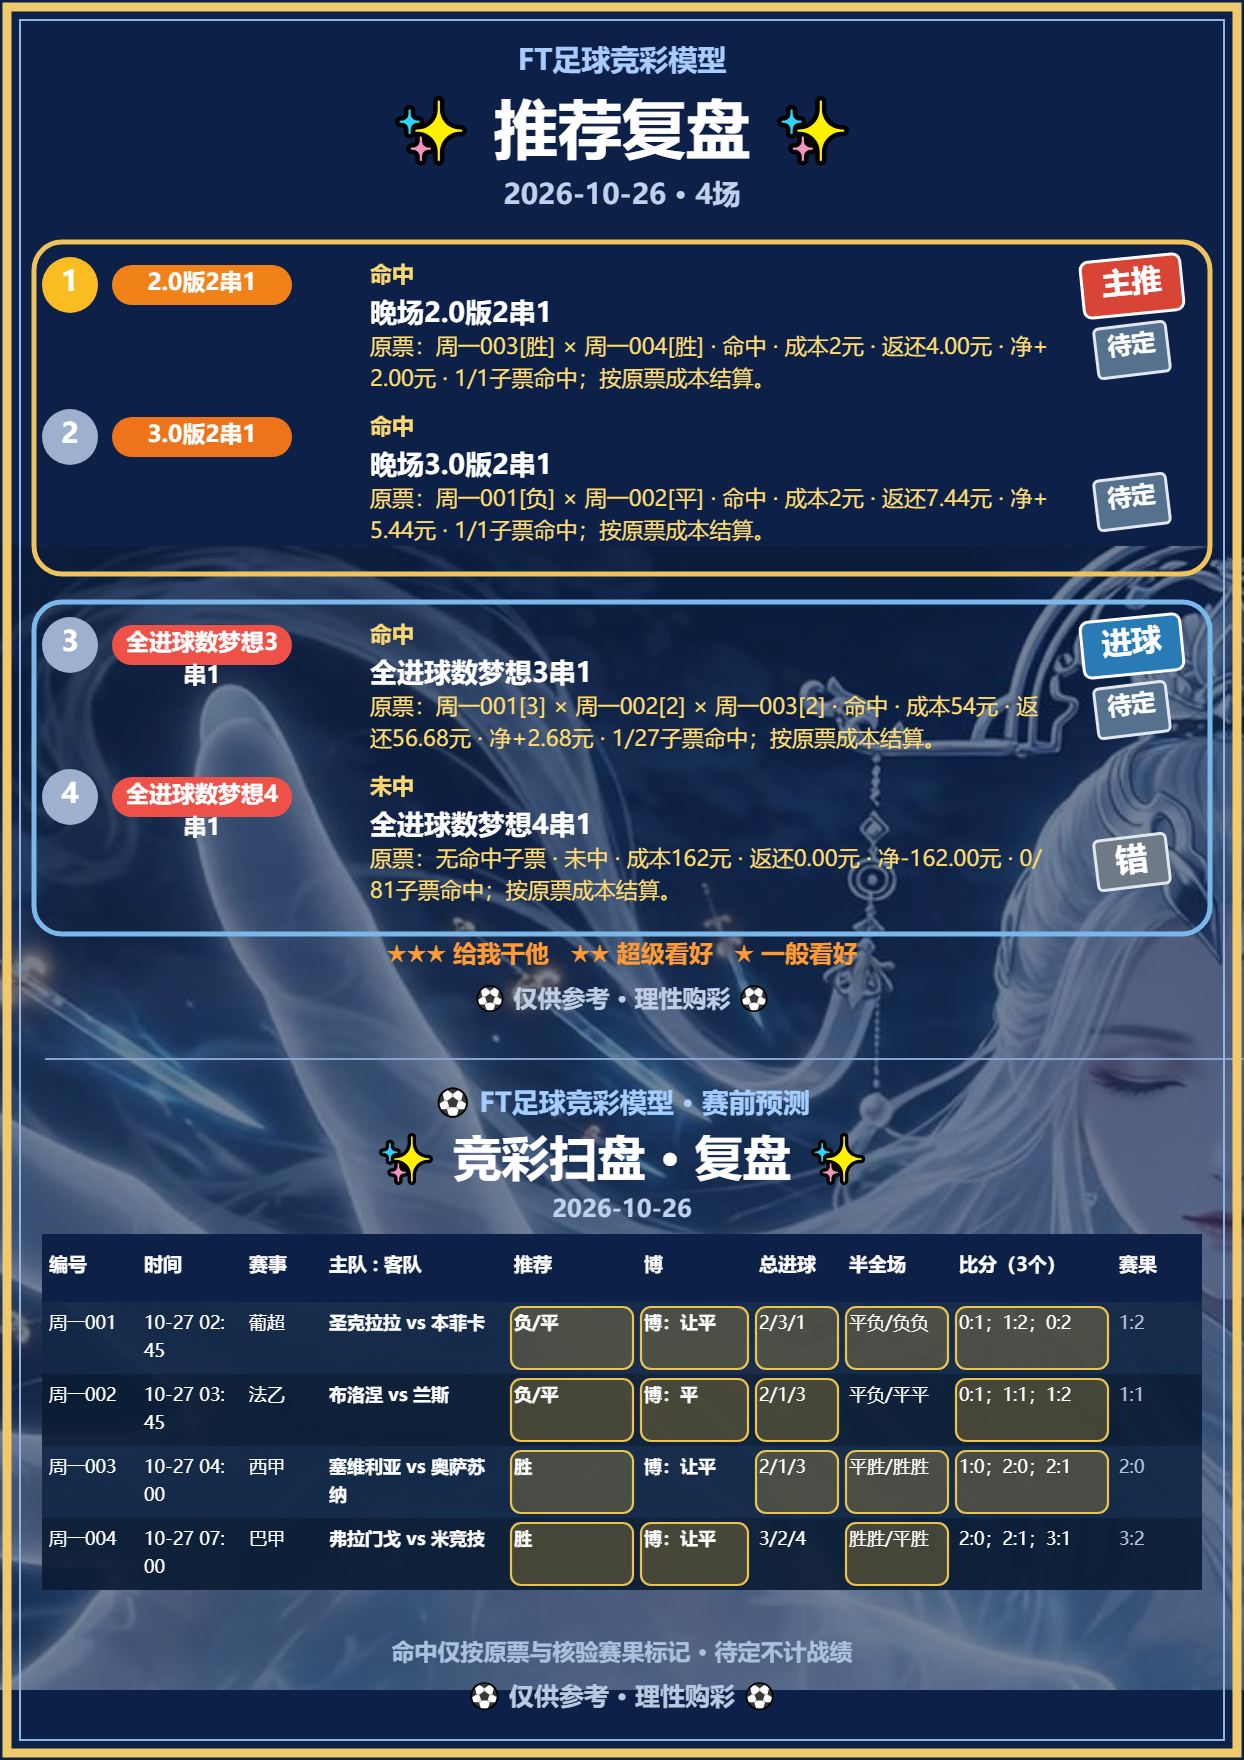
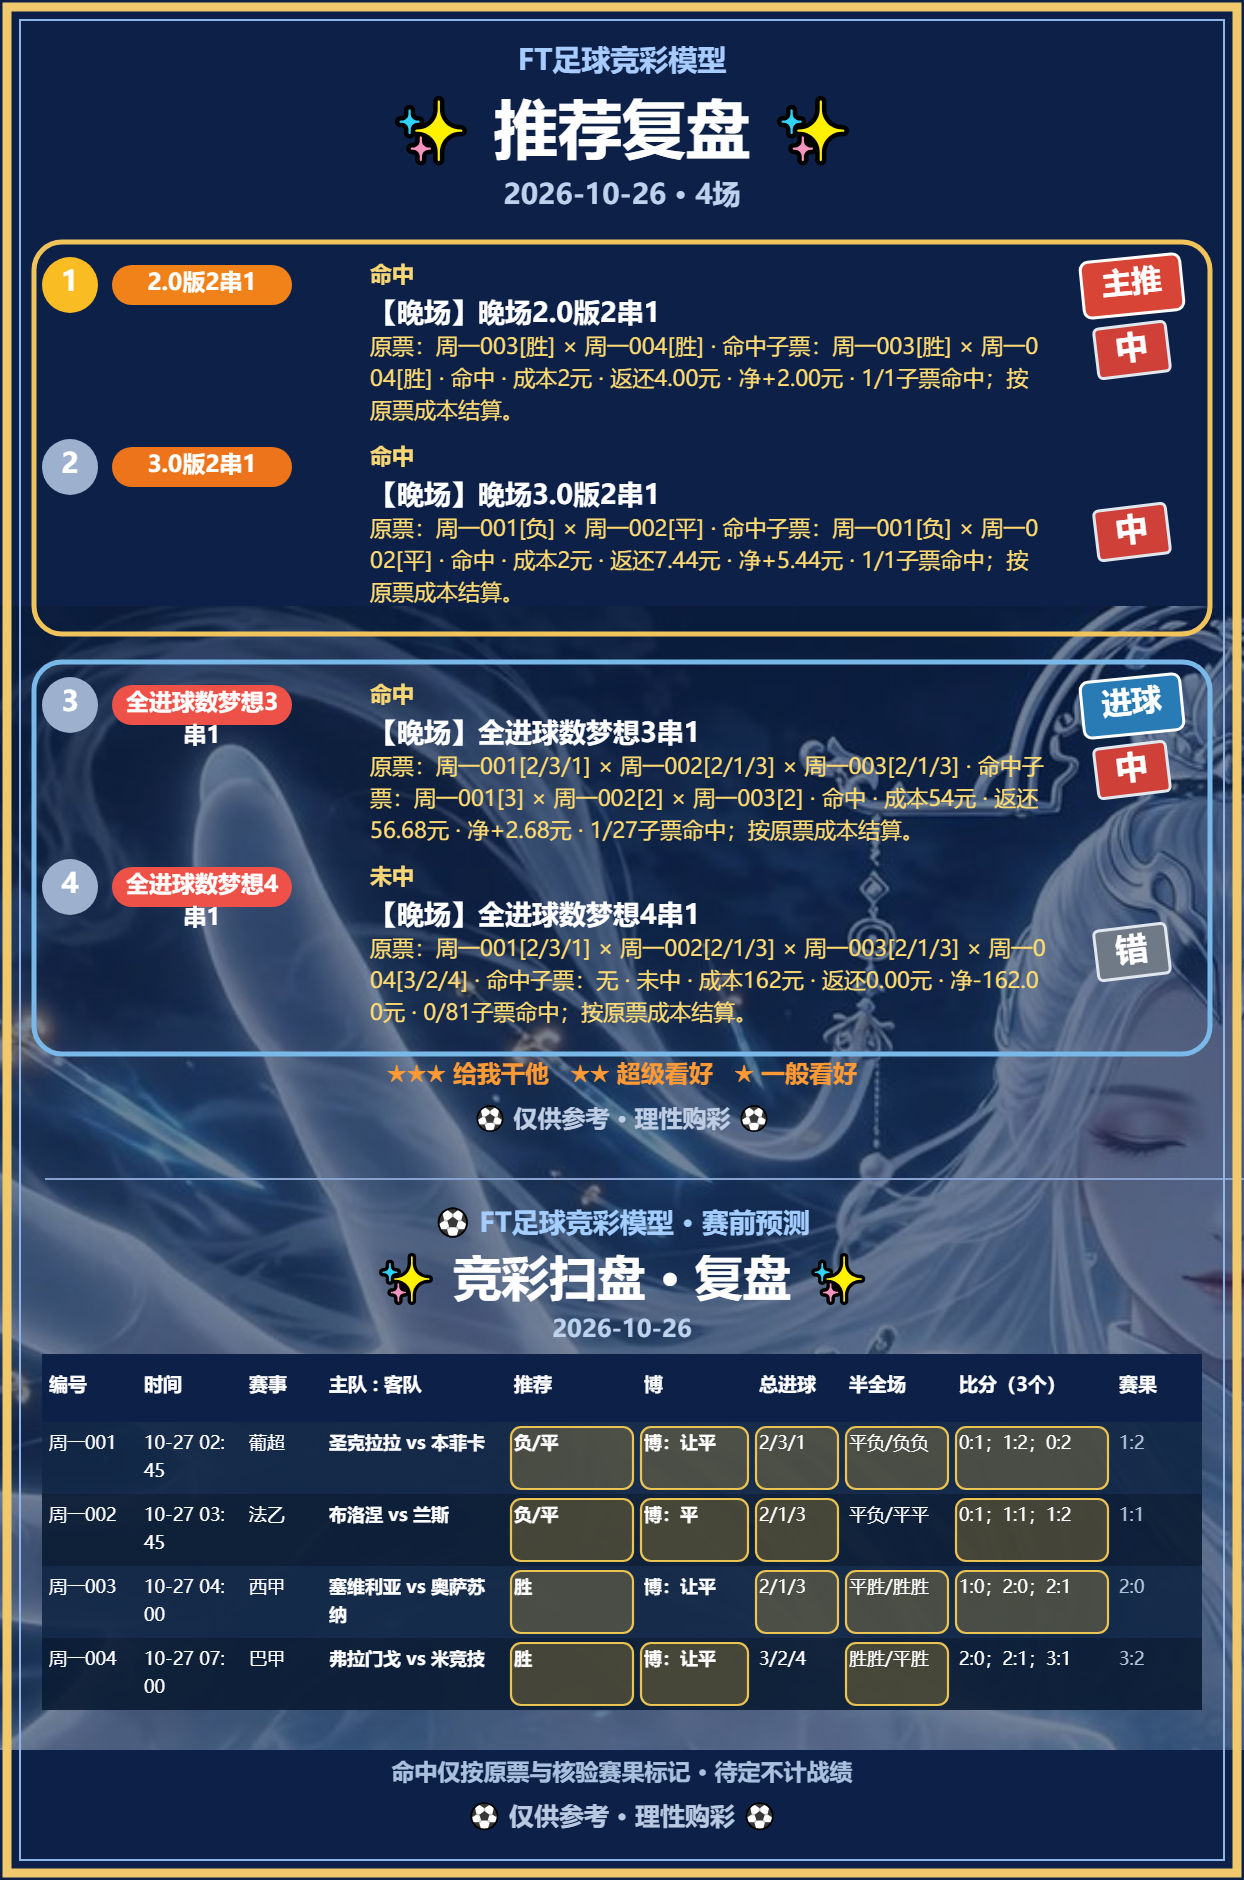
Make football monitoring cloud-first

diff --git a/public/muse-cards.js b/public/muse-cards.js
@@ -8,7 +8,7 @@
   const money=n=>n==null?'—':(Number(n)>0?'+':'')+Number(Number(n).toFixed(2));
   const plain=v=>String(v??'').replace(/<[^>]*>/g,'');
   const reviewPick=r=>plain(r.primaryPick||r.buy||r.resultPick||'待分析').replace(/｜/g,'\n');
-  function ticketSeal(ctx,r,x,y){const s=plain(r.status||r.result||'');let label='待定',color='#56718d';if(r.invalid||/不合规|无效/.test(s)){label='无效';color='#687380'}else if(/待定|待核|未完|未结/.test(s)){}else if(/未中|没中|错/.test(s)){label='错';color='#707986'}else if(r.hit===true||/全中|串子命中|^中$/.test(s)){label='中';color='#ce4038'}ctx.save();ctx.translate(x,y);ctx.rotate(-.12);ctx.fillStyle=color;ctx.strokeStyle='#e0e7ef';ctx.lineWidth=3;ctx.beginPath();ctx.roundRect(-36,-25,72,50,5);ctx.fill();ctx.stroke();ctx.textAlign='center';text(ctx,label,0,-16,68,label.length>1?24:32,'#fff',true);ctx.restore();ctx.textAlign='left'}
+  function ticketSeal(ctx,r,x,y){const s=plain(r.status||r.result||'');let label='待定',color='#56718d';if(r.invalid||/不合规|无效/.test(s)){label='无效';color='#687380'}else if(/待定|待核|未完|未结/.test(s)){}else if(/未中|没中|错/.test(s)){label='错';color='#707986'}else if(r.hit===true||/命中|全中|^中$/.test(s)){label='中';color='#ce4038'}ctx.save();ctx.translate(x,y);ctx.rotate(-.12);ctx.fillStyle=color;ctx.strokeStyle='#e0e7ef';ctx.lineWidth=3;ctx.beginPath();ctx.roundRect(-36,-25,72,50,5);ctx.fill();ctx.stroke();ctx.textAlign='center';text(ctx,label,0,-16,68,label.length>1?24:32,'#fff',true);ctx.restore();ctx.textAlign='left'}
   function wrap(ctx,text,max){let line='',out=[];for(const c of plain(text)){if(c==='\n'||(ctx.measureText(line+c).width>max&&line)){out.push(line);line='';if(c==='\n')continue}line+=c}if(line)out.push(line);return out.length?out:['—']}
   function text(ctx,value,x,y,max,size=24,color='#fff',bold=false){ctx.font=`${bold?'700 ':''}${size}px ${FONT}`;ctx.fillStyle=color;const lines=wrap(ctx,value,max);lines.forEach((s,i)=>ctx.fillText(s,x,y+i*(size+10)));return lines.length*(size+10)}
   function setup(height,width=1376){const canvas=document.createElement('canvas');canvas.width=width;canvas.height=height;const ctx=canvas.getContext('2d');ctx.fillStyle='#0d2148';ctx.fillRect(0,0,width,height);ctx.textBaseline='top';return {canvas,ctx}}
@@ -37,7 +37,7 @@
     const tickets=report.date>=TRACKING_RESET_DATE?formalTickets(raw,report):reviewMode?raw.map(r=>({r,label:r.name||labels[slot(r)],i:slot(r)})).sort((a,b)=>[0,2,1,3,4,5,6].indexOf(a.i)-[0,2,1,3,4,5,6].indexOf(b.i)):orderedTickets(raw);
     const rows=reviewMode?(report.rows||[]):currentScanRows;
     const probe=document.createElement('canvas').getContext('2d');
-    const ticketBlocks=tickets.map(({r,label,i,kind,emptyReason})=>{const title=r?`${r.sessionLabel?'【'+r.sessionLabel+'】':''}${reviewMode?(r.name||label):(selections(r)||r.name||label)}`:(emptyReason?'未出单':report.finalLocked?'今晚不出':'待定');const detail=!r?(emptyReason||(report.finalLocked?'最终审核：无合格方案':'继续分析，暂未定稿')):reviewMode?[(r.settledSubTickets||[]).length?`原票：${r.settledSubTickets.join('；')}`:'原票：无命中子票',`${r.status||r.result||'待定'} · 成本${r.cost??r.totalCost??0}元 · 返还${Number(r.returned??0).toFixed(2)}元 · 净${Number(r.net??0)>=0?'+':''}${Number(r.net??0).toFixed(2)}元`,r.detail||''].filter(Boolean).join(' · '):[r.oddsText||r.totalOdds||'赔率待核',r.totalCost!=null?`总投入${r.totalCost}元`:'',(r.legs||[]).map(l=>l.selectionReason||'').filter(Boolean).join('；')].filter(Boolean).join(' · ');probe.font=`700 27px ${FONT}`;const a=wrap(probe,title,680);probe.font=`22px ${FONT}`;const b=wrap(probe,detail,680);return {r,label,i,a,b,tier:(i===0||i===2)?'main':'bet',h:Math.max(132,a.length*36+b.length*30+56)}});
+    const ticketBlocks=tickets.map(({r,label,i,kind,emptyReason})=>{const title=r?`${r.sessionLabel?'【'+r.sessionLabel+'】':''}${reviewMode?(r.name||label):(selections(r)||r.name||label)}`:(emptyReason?'未出单':report.finalLocked?'今晚不出':'待定');const detail=!r?(emptyReason||(report.finalLocked?'最终审核：无合格方案':'继续分析，暂未定稿')):reviewMode?[`原票：${r.originalSelectionText||r.selectionText||selections(r)||'—'}`,(r.settledSubTickets||[]).length?`命中子票：${r.settledSubTickets.join('；')}`:'命中子票：无',`${r.status||r.result||'待定'} · 成本${r.cost??r.totalCost??0}元 · 返还${Number(r.returned??0).toFixed(2)}元 · 净${Number(r.net??0)>=0?'+':''}${Number(r.net??0).toFixed(2)}元`,r.detail||''].filter(Boolean).join(' · '):[r.oddsText||r.totalOdds||'赔率待核',r.totalCost!=null?`总投入${r.totalCost}元`:'',(r.legs||[]).map(l=>l.selectionReason||'').filter(Boolean).join('；')].filter(Boolean).join(' · ');probe.font=`700 27px ${FONT}`;const a=wrap(probe,title,680);probe.font=`22px ${FONT}`;const b=wrap(probe,detail,680);return {r,label,i,a,b,tier:(i===0||i===2)?'main':'bet',h:Math.max(148,a.length*36+b.length*30+56)}});
     const widths=[95,105,80,185,130,115,90,110,160,90],heads=['编号','时间','赛事','主队 : 客队','推荐','博','总进球','半全场','比分（3个）','赛果'];
     const tableWidth=widths.reduce((a,b)=>a+b,0),posterWidth=1244;
     const threeScores=v=>{const scores=plain(Array.isArray(v)?v.join('；'):v).match(/\d+\s*[:：-]\s*\d+/g);return scores?.length?scores.slice(0,3).map(s=>s.replace(/\s/g,'').replace(/[：-]/,':')).join('；'):plain(v)||'—'};
@@ -66,16 +66,18 @@
     const trackingKind=r=>{const s=[r.name,r.type,r.passType,r.trackingTier,r.category].filter(Boolean).join(' ');if(/全进球数|进球数梦想/.test(s)&&(/4串1/.test(s)||Number(r?.legs?.length)===4))return 'goals4';if(/全进球数|进球数梦想/.test(s)&&(/3串1/.test(s)||Number(r?.legs?.length)===3))return 'goals3';const m=s.match(/(?:^|[^\d.])([23])[.]0(?:版|档|\s|[｜|·：:]|$)/);return m?`core${m[1]}`:null};
     const session=r=>r?[r.sessionLabel,r.batchLabel,r.session,r.batch?.label,r.batch?.name,r.name].filter(v=>typeof v==='string').join(' ').match(/早场|中场|晚场/)?.[0]||'':'';
     const order=rs=>rs.map((r,i)=>({r,i})).sort((a,b)=>String(a.r.date||report.date).localeCompare(String(b.r.date||report.date))||a.i-b.i).map(x=>x.r);
-    const left=order(raw.filter(r=>trackingKind(r)==='core2'||trackingKind(r)==='core3')),right=order(raw.filter(r=>trackingKind(r)==='goals3'||trackingKind(r)==='goals4'));const sessions=['早场','中场','晚场'];const count=Math.max(left.length,right.length,3),heroH=800,tableY=912,height=tableY+80+count*135+160;
+    const left=order(raw.filter(r=>trackingKind(r)==='core2'||trackingKind(r)==='core3')),right=order(raw.filter(r=>trackingKind(r)==='goals3'||trackingKind(r)==='goals4'));const sessions=['早场','中场','晚场'];const count=reviewMode?Math.max(left.length,right.length):Math.max(left.length,right.length,3),heroH=800,tableY=912,height=tableY+80+count*135+160;
     const cardWidth=1244,tableWidth=1160,tableX=42;const {canvas,ctx}=setup(height,cardWidth);ctx.fillStyle='#0d2148';ctx.fillRect(0,0,cardWidth,height);
     // Keep the whole reference artwork inside the border, including its left speech bubble.
     if(asset.naturalWidth){const artX=32,artY=32,artW=cardWidth-64,artH=artW*asset.naturalHeight/asset.naturalWidth;ctx.drawImage(asset,artX,artY,artW,artH);ctx.fillStyle='rgba(7,16,32,.24)';ctx.fillRect(artX,artY,artW,artH)}
     ctx.fillStyle='rgba(14,41,77,.86)';ctx.fillRect(36,heroH-77,cardWidth-72,77);centered(ctx,TITLE+' · '+(reviewMode?'复盘跟踪卡':'今日跟踪卡'),heroH-59,39,'#f5d485');
-    ctx.fillStyle='#0d2148';ctx.fillRect(tableX,heroH+10,tableWidth,88);text(ctx,'核心串',65,heroH+35,240,30,'#9cc8ff',true);centered(ctx,'2026-10-26起清零重记',heroH+32,34);text(ctx,'进球梦想串',955,heroH+35,245,30,'#ffa14a',true);
-    const widths=[115,255,65,90,100,255,65,90,125],heads=['日期','2.0 / 3.0','结果','当日盈亏','累计盈亏','进球3/4串1','结果','当日盈亏','累计盈亏'];ctx.fillStyle='#0d2148';ctx.fillRect(tableX,tableY,tableWidth,80);let x=tableX;heads.forEach((s,i)=>{text(ctx,s,x+5,tableY+25,widths[i]-8,21,'#fff',true);x+=widths[i]});
-    function values(r,i){if(!r)return [`${sessions[i]||'待定'} · 待定`,'待定','—','—'];const cost=Number(r.totalCost??r.cost??r.exampleStake),net=r.net??r.exampleNet;const historical=Boolean(r.date&&r.date!==report.date);const amount=(reviewMode||historical)&&Number.isFinite(cost)&&cost>0&&net!=null?Number(net):null;return [[session(r)||(!historical?sessions[Math.max(0,i-1)]:'')||'',selections(r)||r.name].filter(Boolean).join(' · '),(reviewMode||historical)?(r.status||r.result||'待定'):'待定',money(amount),r.cumulativeNet==null?'—':money(r.cumulativeNet)]}
+    const startBankroll=1000,totalCost=Number(report.ticketTotals?.cost??0),totalReturned=Number(report.ticketTotals?.returned??0),totalNet=Number(report.ticketTotals?.net??0),currentBankroll=startBankroll+(Number.isFinite(totalNet)?totalNet:0);
+    ctx.fillStyle='#0d2148';ctx.fillRect(tableX,heroH+10,tableWidth,88);centered(ctx,reviewMode?`本金1000元 · 投入${totalCost.toFixed(0)}元 · 返还${totalReturned.toFixed(2)}元 · 余额${currentBankroll.toFixed(2)}元`:'统一按1000元起始本金跟踪',heroH+32,29);
+    const widths=[115,255,65,90,100,255,65,90,125],heads=['日期','2.0 / 3.0','结果','当日盈亏','本金余额','进球3/4串1','结果','当日盈亏','本金余额'];ctx.fillStyle='#0d2148';ctx.fillRect(tableX,tableY,tableWidth,80);let x=tableX;heads.forEach((s,i)=>{text(ctx,s,x+5,tableY+25,widths[i]-8,21,'#fff',true);x+=widths[i]});
+    const balances=new Map();let running=startBankroll;order(raw).forEach(r=>{const net=Number(r.net??r.exampleNet);if(Number.isFinite(net))running+=net;balances.set(r,running)});
+    function values(r,i){if(!r)return [`${sessions[i]||'待定'} · 待定`,'待定','—','—'];const cost=Number(r.totalCost??r.cost??r.exampleStake),net=r.net??r.exampleNet;const historical=Boolean(r.date&&r.date!==report.date);const amount=(reviewMode||historical)&&Number.isFinite(cost)&&cost>0&&net!=null?Number(net):null;return [[session(r)||(!historical?sessions[Math.max(0,i-1)]:'')||'',selections(r)||r.name].filter(Boolean).join(' · '),(reviewMode||historical)?(r.status||r.result||'待定'):'待定',money(amount),balances.has(r)?`${balances.get(r).toFixed(2)}元`:'—']}
     for(let i=0;i<count;i++){const y=tableY+80+i*135;ctx.fillStyle=i%2?'#173260':'#203f73';ctx.fillRect(tableX,y,tableWidth,135);const rowDate=(left[i]?.date||right[i]?.date||report.date||'').slice(5).replace('-','.');const rowSession=session(left[i])||session(right[i])||sessions[Math.max(0,i-Math.max(left.length,right.length)+3)]||'';const data=[`${rowDate}${rowSession?' '+rowSession:''}`,...values(left[i],i),...values(right[i],i)];x=tableX;data.forEach((s,j)=>{const c=[3,4,7,8].includes(j)?(String(s).startsWith('+')?'#fa806b':String(s).startsWith('-')?'#76ce8b':'#9aafcc'):'#fff';text(ctx,s,x+7,y+22,widths[j]-14,j===1||j===5?23:20,c,j===1||j===5);x+=widths[j]});ctx.strokeStyle='#58729c';ctx.beginPath();ctx.moveTo(tableX,y+134);ctx.lineTo(tableX+tableWidth,y+134);ctx.stroke()}
-    centered(ctx,(!reviewMode&&report.finalLocked&&!raw.length?'今日四类票均不出 · 投入0元 · 返还0元':'仅跟踪2.0、3.0、进球数梦想3串1/4串1 · 早中晚场全部收录'),height-125,23,'#b5c6de');centered(ctx,'新序列自2026-10-26清零累计；更早历史不计入本卡',height-87,22,'#9bb3d2');centered(ctx,TITLE+' · 仅供参考 · 理性购彩',height-50,22,'#b5c6de');edge(ctx,height);return png(canvas);
+    centered(ctx,(!reviewMode&&report.finalLocked&&!raw.length?'今日四类票均不出 · 投入0元 · 返还0元':'仅跟踪2.0、3.0、进球数梦想3串1/4串1 · 早中晚场全部收录'),height-125,23,'#b5c6de');centered(ctx,'新序列自2026-10-26以1000元本金开始；更早历史不计入本卡',height-87,22,'#9bb3d2');centered(ctx,TITLE+' · 仅供参考 · 理性购彩',height-50,22,'#b5c6de');edge(ctx,height);return png(canvas);
   }
   scanImageBlob=()=>poster(false);reviewImageBlob=()=>poster(true);trackingImageBlob=tracking;
   let timer;const cache=new Map(),signatures=new Map();
